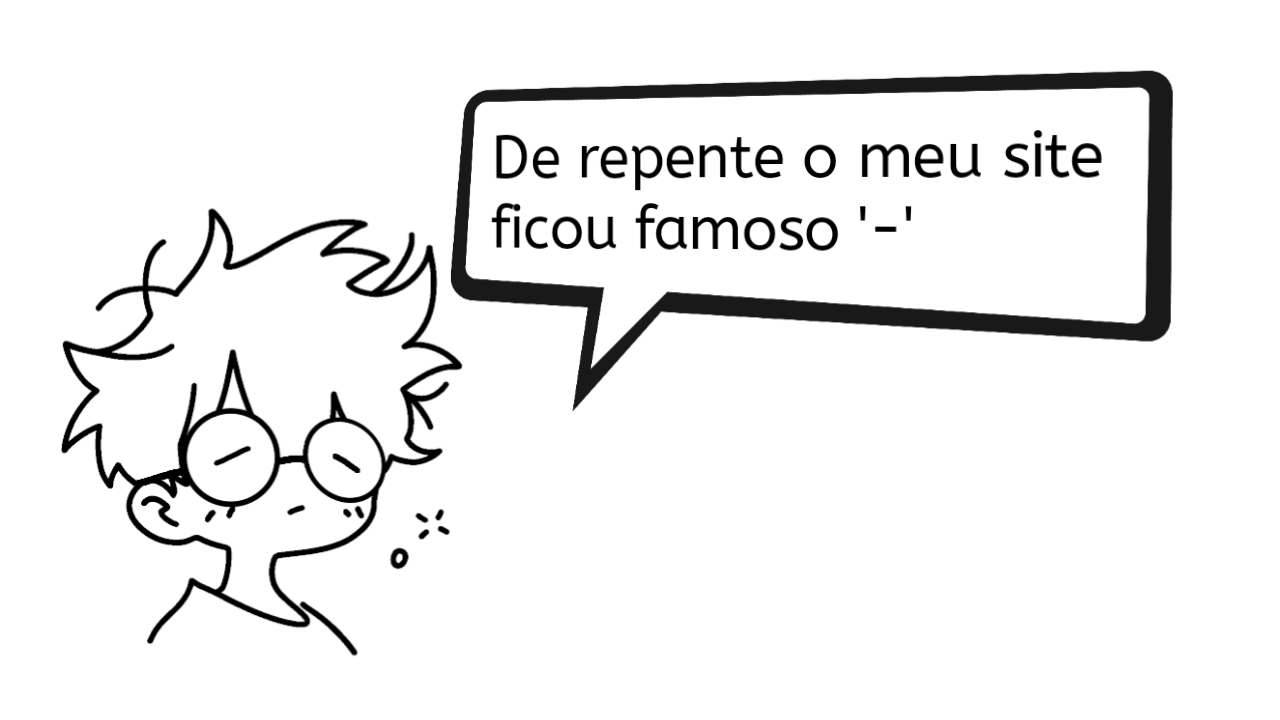
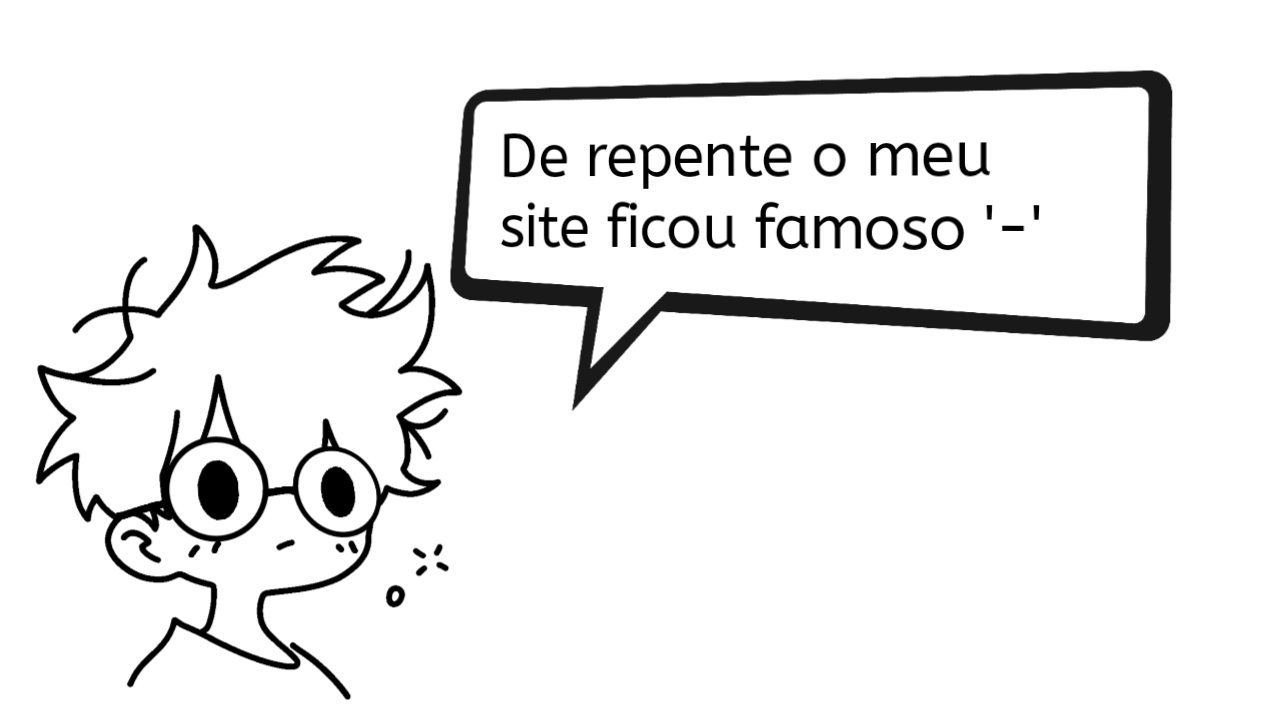
update

diff --git a/css/style.css b/css/style.css
@@ -10,7 +10,7 @@
     justify-content: left;
     align-content: center;
     align-items: center;
-    padding: 0.5rem;
+    padding: 5px;
     background: black;
     box-shadow: 0 0 20px 3px black
 }
@@ -29,10 +29,14 @@
 
 .note {
     display: flex;
-    margin-top: 20px;
-    margin-bottom: 20px;
     justify-content: center;
     text-align: center;
+    align-self: center;
+}
+
+.note img {
+    width: 80vw;
+    height: auto
 }
 
 .section {

diff --git a/index.html b/index.html
@@ -14,7 +14,9 @@
     <img src="./img/luka.png" alt="luka.png" class="header"/>
     <p>Cantinho<br>do Luka</p>
   </div>
-  <p class="note">Nesse site não tem nada de interessante<br>Só serve para quem tá desesperado :/</p>
+  <div class="note">
+  <img src="./img/say.png" alt="say.png">
+  </div>
   <div class="subjects">
   </div>
   <footer>
